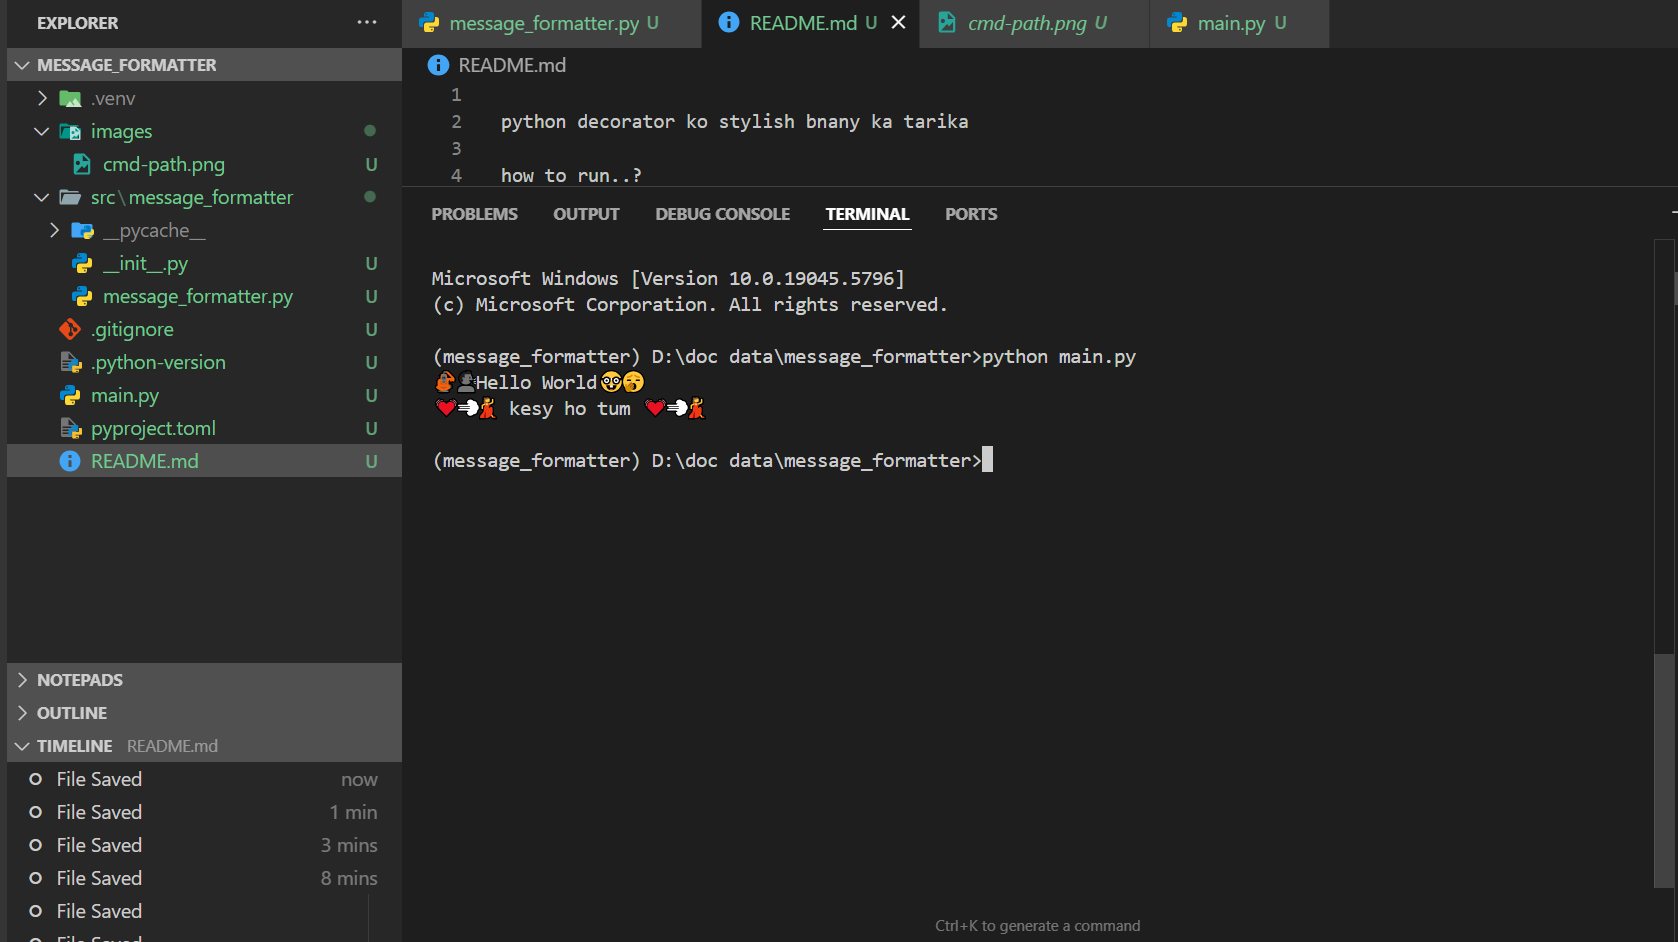
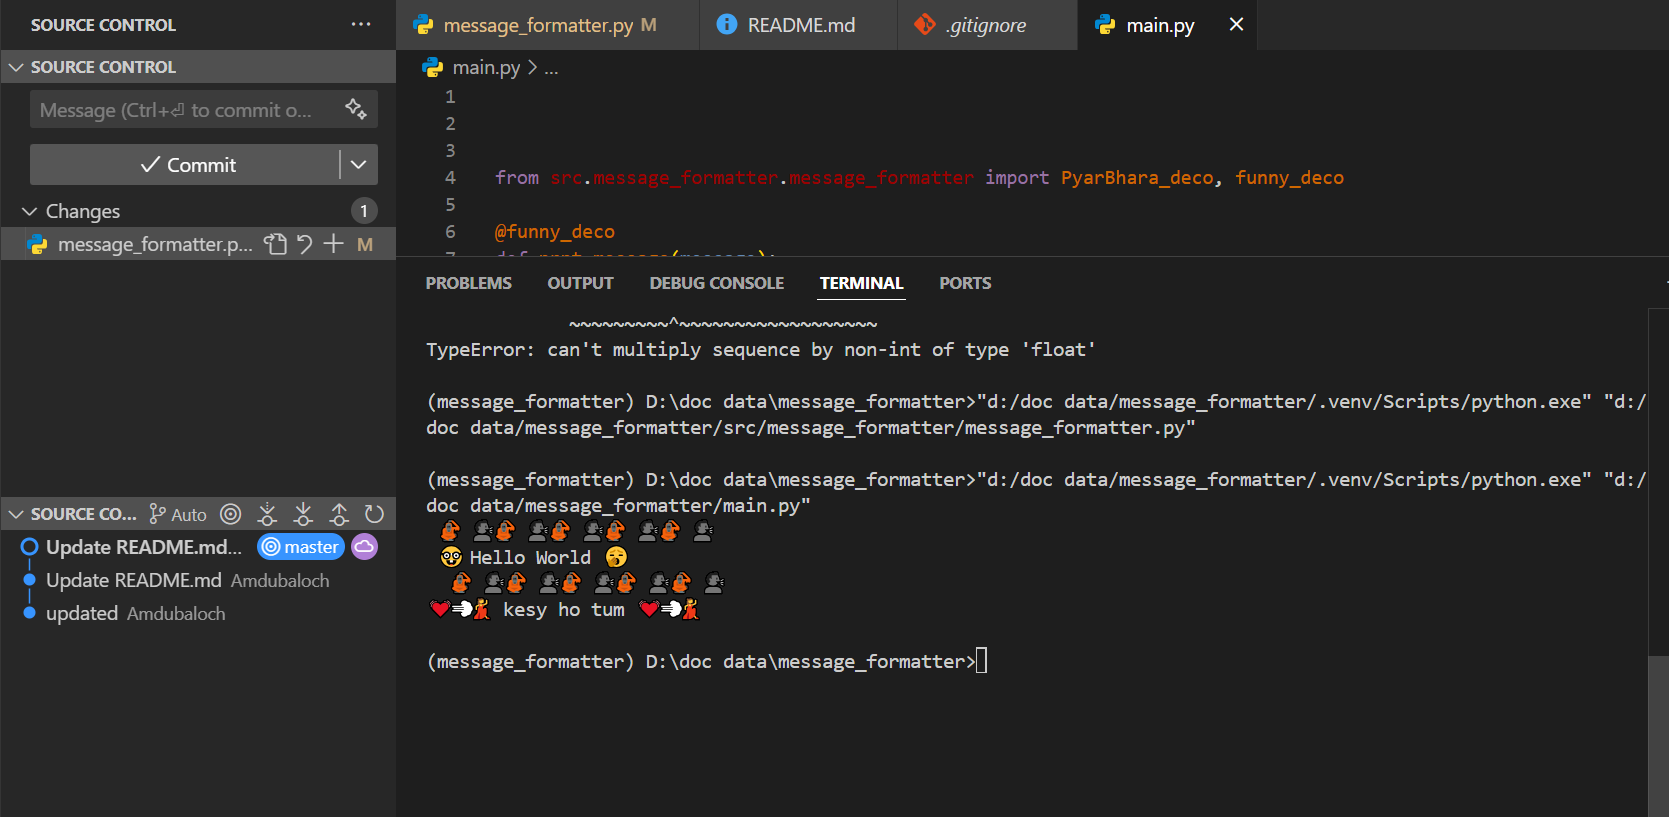
update

diff --git a/src/message_formatter/message_formatter.py b/src/message_formatter/message_formatter.py
@@ -1,6 +1,7 @@
 def funny_deco(func):
     def wrapper(message):
-        return f"🦧🗣 {message}🤓🥱"
+        border = " 🦧 🗣" * (len(message) //2)
+        return f"{border}\n 🤓 {message} 🥱\n {border}"
     return wrapper
 
 
